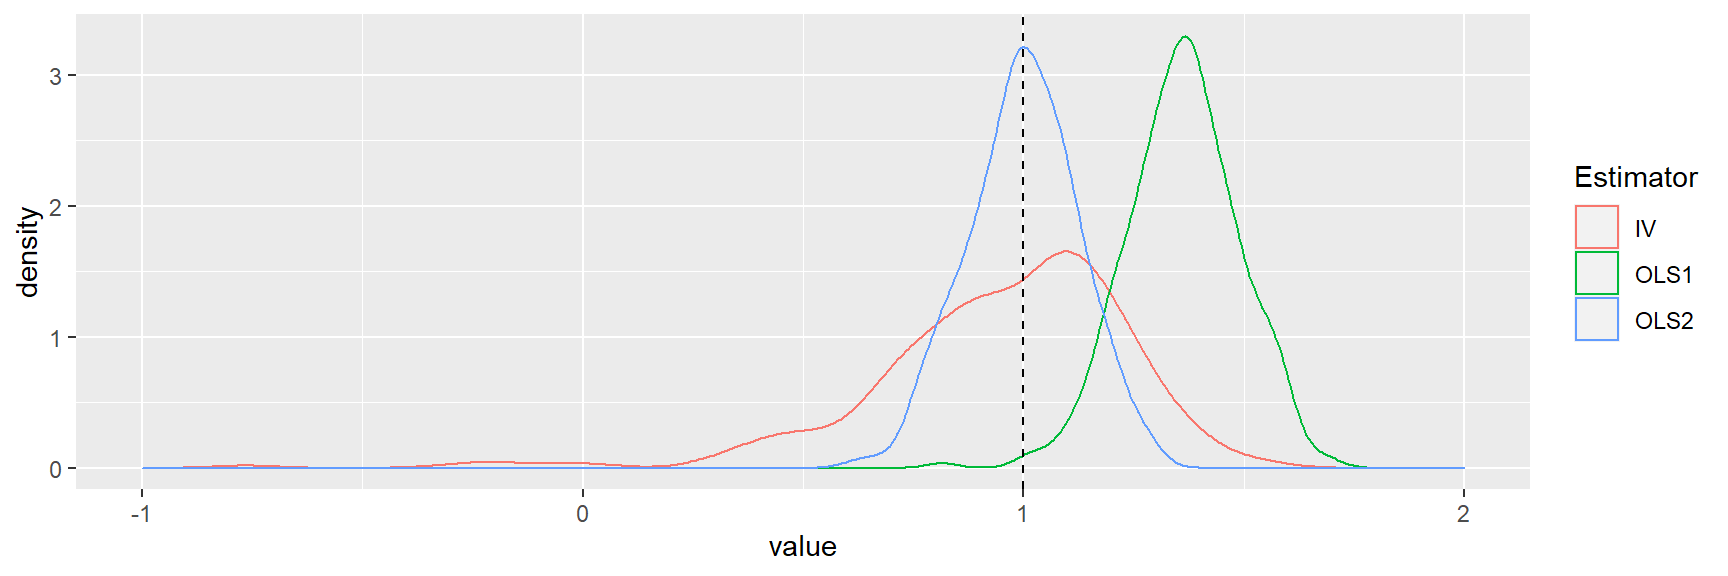
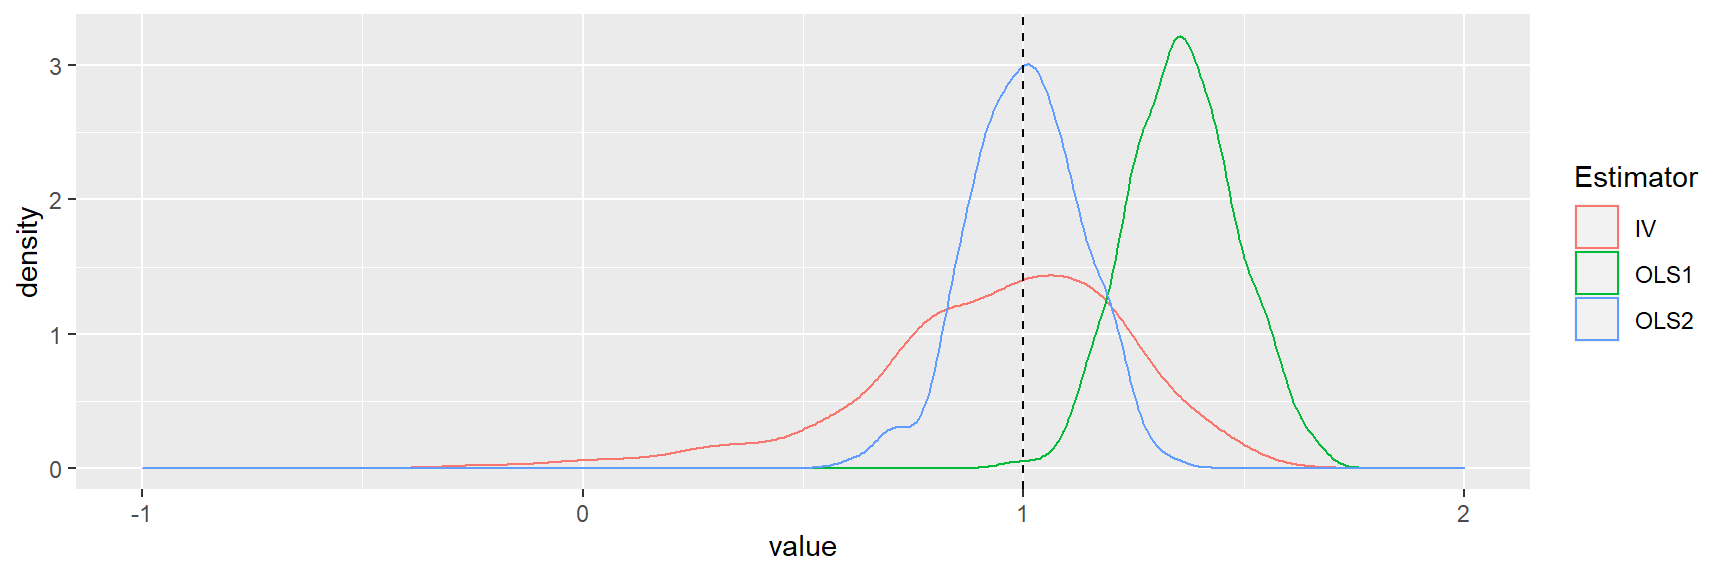
Inferencia causal e instrumentais

diff --git a/varinstrumentais.html b/varinstrumentais.html
@@ -566,20 +566,20 @@ mod2OLS
 Constant
 </td>
 <td>
-0.604<sup>**</sup>
+0.708<sup>***</sup>
 </td>
 <td>
--0.032
+-0.033
 </td>
 </tr>
 <tr>
 <td style="text-align:left">
 </td>
 <td>
-(0.247)
+(0.233)
 </td>
 <td>
-(0.198)
+(0.179)
 </td>
 </tr>
 <tr>
@@ -595,20 +595,20 @@ Constant
 X
 </td>
 <td>
-1.384<sup>***</sup>
+1.399<sup>***</sup>
 </td>
 <td>
-1.028<sup>***</sup>
+0.990<sup>***</sup>
 </td>
 </tr>
 <tr>
 <td style="text-align:left">
 </td>
 <td>
-(0.042)
+(0.040)
 </td>
 <td>
-(0.042)
+(0.039)
 </td>
 </tr>
 <tr>
@@ -626,7 +626,7 @@ U
 <td>
 </td>
 <td>
-0.904<sup>***</sup>
+1.034<sup>***</sup>
 </td>
 </tr>
 <tr>
@@ -635,7 +635,7 @@ U
 <td>
 </td>
 <td>
-(0.065)
+(0.066)
 </td>
 </tr>
 <tr>
@@ -666,10 +666,10 @@ Observations
 R<sup>2</sup>
 </td>
 <td>
-0.783
+0.804
 </td>
 <td>
-0.869
+0.893
 </td>
 </tr>
 <tr>
@@ -677,10 +677,10 @@ R<sup>2</sup>
 Adjusted R<sup>2</sup>
 </td>
 <td>
-0.782
+0.804
 </td>
 <td>
-0.868
+0.892
 </td>
 </tr>
 <tr>
@@ -688,10 +688,10 @@ Adjusted R<sup>2</sup>
 Residual Std. Error
 </td>
 <td>
-1.297 (df = 298)
+1.264 (df = 298)
 </td>
 <td>
-1.011 (df = 297)
+0.936 (df = 297)
 </td>
 </tr>
 <tr>
@@ -699,10 +699,10 @@ Residual Std. Error
 F Statistic
 </td>
 <td>
-1,076.413<sup>***</sup> (df = 1; 298)
+1,225.063<sup>***</sup> (df = 1; 298)
 </td>
 <td>
-982.717<sup>***</sup> (df = 2; 297)
+1,239.687<sup>***</sup> (df = 2; 297)
 </td>
 </tr>
 <tr>
@@ -767,14 +767,14 @@ ModIV
 Constant
 </td>
 <td>
-2.935<sup>***</sup>
+2.473<sup>***</sup>
 </td>
 </tr>
 <tr>
 <td style="text-align:left">
 </td>
 <td>
-(0.501)
+(0.437)
 </td>
 </tr>
 <tr>
@@ -788,14 +788,14 @@ Constant
 X
 </td>
 <td>
-0.967<sup>***</sup>
+1.080<sup>***</sup>
 </td>
 </tr>
 <tr>
 <td style="text-align:left">
 </td>
 <td>
-(0.088)
+(0.078)
 </td>
 </tr>
 <tr>
@@ -821,7 +821,7 @@ Observations
 R<sup>2</sup>
 </td>
 <td>
-0.712
+0.763
 </td>
 </tr>
 <tr>
@@ -829,7 +829,7 @@ R<sup>2</sup>
 Adjusted R<sup>2</sup>
 </td>
 <td>
-0.711
+0.762
 </td>
 </tr>
 <tr>
@@ -837,7 +837,7 @@ Adjusted R<sup>2</sup>
 Residual Std. Error
 </td>
 <td>
-1.495 (df = 298)
+1.393 (df = 298)
 </td>
 </tr>
 <tr>
@@ -893,6 +893,7 @@ geom_vline(xintercept = 1, lty = 2)
 <p>Agora usamos a função IV.</p>
 <pre class="r"><code>IVsamD(sample_size = 30,
 coef_Z = 1, viol = 0)</code></pre>
+<pre><code>## Warning: Removed 2 rows containing non-finite values (stat_density).</code></pre>
 <p><img src="varinstrumentais_files/figure-html/unnamed-chunk-8-1.png" width="864" /></p>
 <p>A distribuição de amostragem IV tem maior propagação, embora consistente</p>
 <div id="exercício-proposto" class="section level3">
